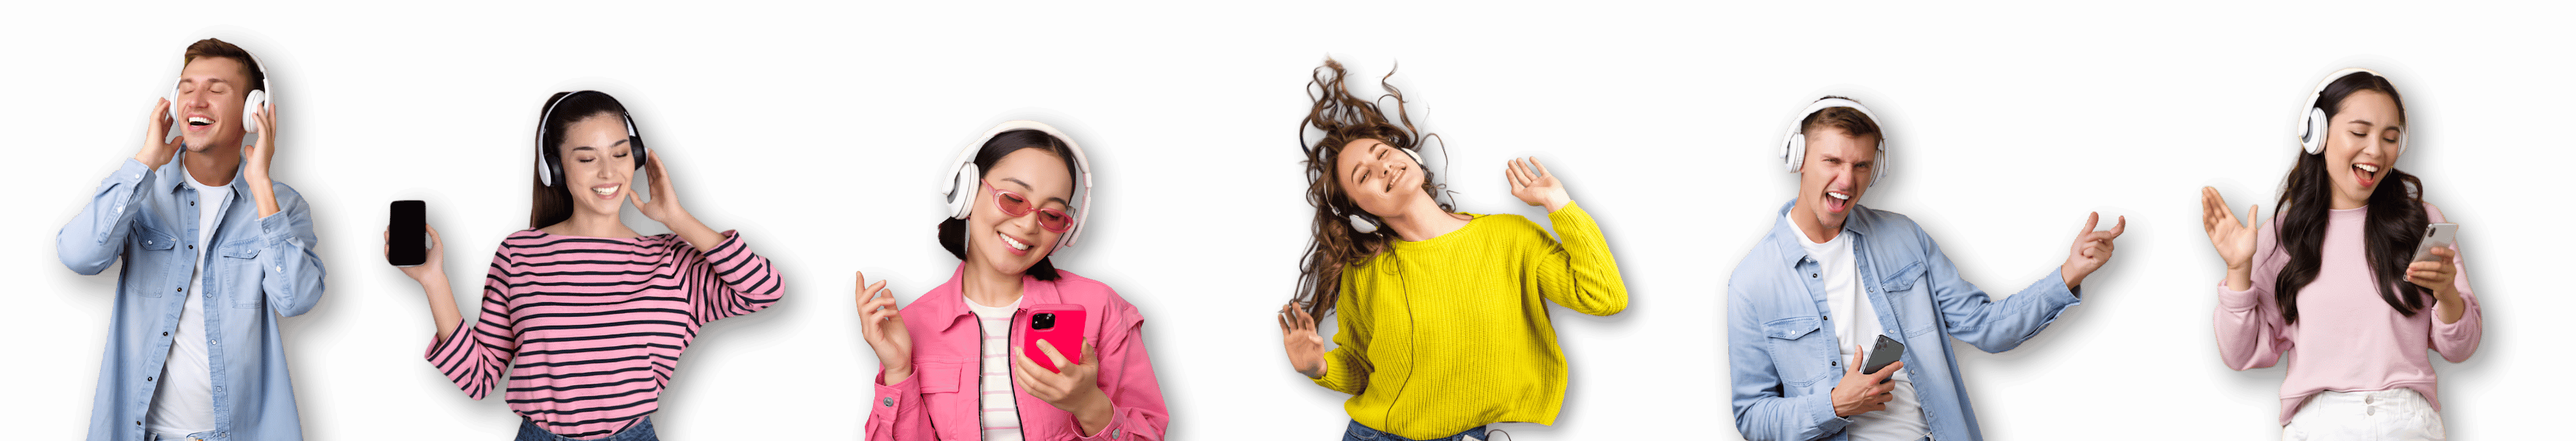
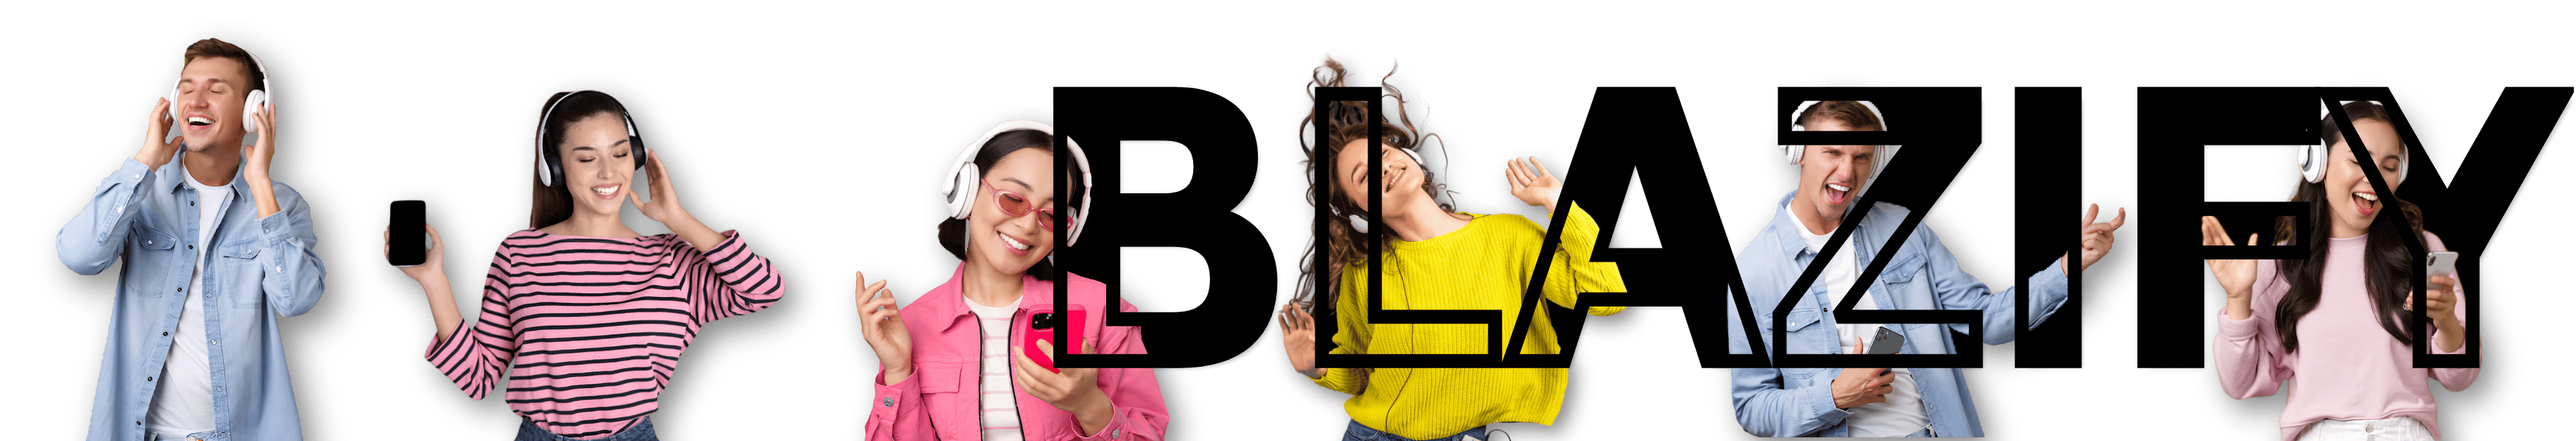
Use the artwork with the lettering in it, drawn with its own transparency

diff --git a/app/src/main/kotlin/com/blazify/desktop/ui/HomeHero.kt b/app/src/main/kotlin/com/blazify/desktop/ui/HomeHero.kt
@@ -30,18 +30,13 @@ import androidx.compose.ui.Alignment
 import androidx.compose.ui.Modifier
 import androidx.compose.ui.draw.clip
 import androidx.compose.ui.draw.clipToBounds
-import androidx.compose.ui.geometry.Offset
-import androidx.compose.ui.graphics.BlendMode
 import androidx.compose.ui.graphics.Brush
 import androidx.compose.ui.graphics.Color
 import androidx.compose.ui.graphics.vector.ImageVector
 import androidx.compose.ui.layout.ContentScale
 import androidx.compose.ui.res.loadImageBitmap
 import androidx.compose.ui.res.useResource
-import androidx.compose.ui.text.TextStyle
-import androidx.compose.ui.text.drawText
 import androidx.compose.ui.text.font.FontWeight
-import androidx.compose.ui.text.rememberTextMeasurer
 import androidx.compose.ui.text.style.TextOverflow
 import androidx.compose.ui.unit.IntOffset
 import androidx.compose.ui.unit.IntSize
@@ -73,12 +68,6 @@ fun HomeHero(
     modifier: Modifier = Modifier,
 ) {
     val dark = Blz.dark
-    val measurer = rememberTextMeasurer()
-    // Read here rather than inside the drawing, which isn't a composable place.
-    // Strong enough to survive being painted over. The fades that blend the
-    // crowd into the page go down after this, and a faint mark simply did not
-    // come through them.
-    val markColour = Blz.ink.copy(alpha = if (dark) 0.34f else 0.22f)
     val hero = remember {
         runCatching { useResource("blazify_people.png") { loadImageBitmap(it) } }.getOrNull()
     }
@@ -112,42 +101,6 @@ fun HomeHero(
 
             hero?.let { picture ->
                 Canvas(Modifier.matchParentSize()) {
-                    // The name, measured rather than guessed.
-                    //
-                    // Choosing a size as a fraction of the window and hoping it
-                    // fits is what cut the B off one end and the y off the
-                    // other: how wide seven letters come out depends on the
-                    // font, the weight and the spacing, none of which a
-                    // fraction knows about. Measuring once at any size gives
-                    // the exact ratio to scale by, so it fills the width it is
-                    // given and never exceeds it.
-                    // Kept clear of the left of the hero, which is held at full
-                    // page colour so the greeting has something quiet to sit
-                    // on. A centred word put its first letters straight into
-                    // that and lost them.
-                    val target = size.width * 0.56f
-                    val probe = measurer.measure(
-                        "Blazify",
-                        TextStyle(fontSize = 200.sp, fontWeight = FontWeight.Bold, letterSpacing = 14.sp),
-                    )
-                    val fit = target / probe.size.width
-                    val mark = measurer.measure(
-                        "Blazify",
-                        TextStyle(
-                            fontSize = (200 * fit).sp,
-                            fontWeight = FontWeight.Bold,
-                            letterSpacing = (14 * fit).sp,
-                        ),
-                    )
-                    drawText(
-                        textLayoutResult = mark,
-                        color = markColour,
-                        topLeft = Offset(
-                            size.width * 0.40f,
-                            size.height * 0.26f,
-                        ),
-                    )
-
                     // Scaled to cover the hero rather than to match its width.
                     // Sizing off the width alone made the crowd a thin band on
                     // a narrow window and an enormous one on a wide screen —
@@ -174,12 +127,12 @@ fun HomeHero(
                             -(size.height * 0.10f).toInt(),
                         ),
                         dstSize = drawn,
-                        alpha = if (dark) 0.95f else 0.8f,
-                        // The picture is cut out on black. Added to what's
-                        // underneath, black contributes nothing and only the
-                        // figures land — no rectangle, and it sits correctly on
-                        // whatever colour the artwork has tinted the window.
-                        blendMode = BlendMode.Screen,
+                        // Painted normally now. The picture carries its own
+                        // transparency, so there is no black rectangle to get
+                        // rid of — and adding light, which is how that was
+                        // done before, would have erased the lettering
+                        // completely: it is pure black, and black adds nothing.
+                        alpha = if (dark) 0.95f else 0.85f,
                     )
                 }
             }
